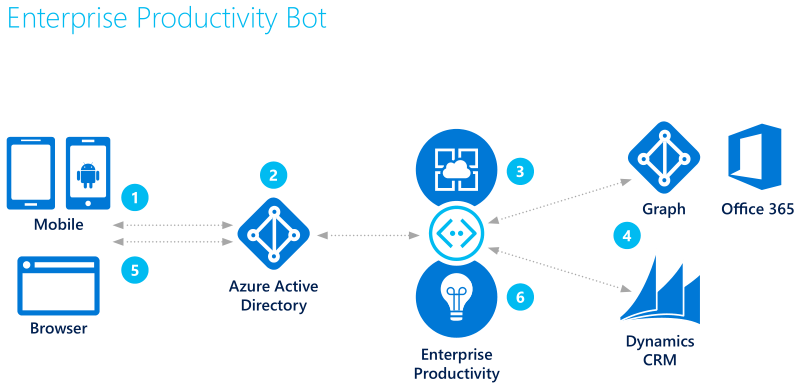
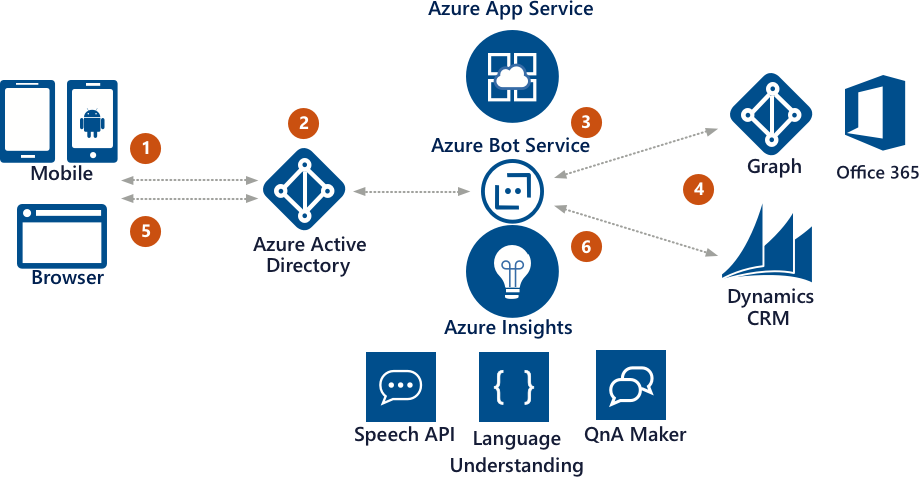
Update images for bot scenarios. (#410)

diff --git a/articles/bot-service-scenario-overview.md b/articles/bot-service-scenario-overview.md
@@ -26,15 +26,15 @@ The [Enterprise Productivity bot](bot-service-scenario-enterprise-productivity.m
 
 The bot integrates with Office 365 to make it quicker and easier to create a meeting request with another person. In the process of doing so you could access additional services like Dynamics CRM. This sample provides the code necessary to integrate with Office 365 with authentication via Azure Active Directory. It provides mock entry points for external services as an exercise for the reader.
 
-## Informational bot scenario
-This [Informational bot](bot-service-scenario-informational.md) can answer questions defined in a knowledge set or FAQ using Cognitive Services QnA Maker and answer more open-ended questions Azure Search.
+## Information bot scenario
+This [Information bot](bot-service-scenario-informational.md) can answer questions defined in a knowledge set or FAQ using Cognitive Services QnA Maker and answer more open-ended questions Azure Search.
 
 Often information is buried in structured data stores like SQL Server that can be easily surfaced via search. Imagine looking up a customer's order status by simple conversational commands. Using Cognitive Services QnA Maker, the user is presented with a set of valid search options like, lookup a customer, review customer's most recent order, etc. With the QnA format defined the user can easily ask questions that are backed by Azure Search which can look up data stored in a SQL Database.
 
 ## IoT bot scenario
 This [Internet of Things (IoT) bot](bot-service-scenario-internet-things.md) bot makes it easy for you to control devices around your home, such as a Philips Hue light using interactive chat commands.
 
-Using this simple bot, you can control your Philips Hue lights in conjunction with the free If This Than That (IFTTT) service. As an IoT device, the Philips Hue can be controlled locally via their exposed API. However, this API is not exposed for general access from outside the local network. However, IFTTT is a "[Friend of Hue](http://www2.meethue.com/en-us/friends-of-hue/ifttt/)" and thus has exposed a number of control commands that you can issue such as turning lights on and off, changing the color, or the light intensity.
+Using this simple bot, you can control your Philips Hue lights in conjunction with the free If This Then That (IFTTT) service. As an IoT device, the Philips Hue can be controlled locally via their exposed API. However, this API is not exposed for general access from outside the local network. However, IFTTT is a "[Friend of Hue](http://www2.meethue.com/en-us/friends-of-hue/ifttt/)" and thus has exposed a number of control commands that you can issue such as turning lights on and off, changing the light color, or the light intensity.
 
 ## Next steps
 Now that you have an overview of the scenarios, dive deeper into each scenario.

diff --git a/articles/bot-service-scenario-informational.md b/articles/bot-service-scenario-informational.md
@@ -1,6 +1,6 @@
 ---
-title: Informational bot scenario | Microsoft Docs
-description: Explore the Informational bot scenario with the Bot Framework.
+title: Information bot scenario | Microsoft Docs
+description: Explore the Information bot scenario with the Bot Framework.
 author: BrianRandell
 ms.author: v-brra
 manager: kamrani
@@ -8,16 +8,16 @@ ms.topic: article
 ms.prod: bot-framework
 ms.date: 12/13/2017
 ---
-# Informational Bot Scenario
-This Informational Bot could answer questions defined in a knowledge set or FAQ using Cognitive Services QnA Maker and answer more open-ended questions by using Azure Search.
+# Information Bot Scenario
+This Information Bot could answer questions defined in a knowledge set or FAQ using Cognitive Services QnA Maker and answer more open-ended questions by using Azure Search.
 
 Often information is buried in structured data stores like SQL Server that can be easily surfaced via search. Imagine looking up a customer's order status by simple conversational commands. Using Cognitive Services QnA Maker, the user is presented with a set of valid search options like, lookup a customer, review a customer's most recent order, etc. With the QnA format defined the user can easily ask questions that are backed by Azure Search which can look up data stored in a SQL Database.
 
-![The Informational bot diagram](~/media/scenarios/bot-service-scenario-informational.png)
+![The Information bot diagram](~/media/scenarios/bot-service-scenario-informational-bot.png)
 
-Here is the logic flow of an Informational bot:
+Here is the logic flow of an Information bot:
 
-1. The employee starts the Informational bot.
+1. The employee starts the Information bot.
 2. Azure Active Directory validates the employee's identity.
 3. The employee can ask the bot what type of queries are supported.
 4. Cognitive Services returns a FAQ bot built with the QnA Maker.
@@ -31,7 +31,7 @@ The sample Bot, written in C#, runs in Microsoft Azure working with data indexed
 You can download or clone the source code for this sample bot from [Samples for Common Bot Framework Scenarios](https://aka.ms/bot/scenarios).
 
 ## Components you'll use
-The Informational Bot uses the following components:
+The Information Bot uses the following components:
 -   Azure AD for Authentication
 -   Cognitive Services: QnA Maker
 -   Azure Search

diff --git a/articles/bot-service-scenario-commerce.md b/articles/bot-service-scenario-commerce.md
@@ -11,16 +11,16 @@ ms.date: 12/13/2017
 # Commerce bot scenario
 The [Commerce bot](bot-service-scenario-commerce.md) scenario describes a bot that replaces the traditional e-mail and phone call interactions that people typically have with a hotel's concierge service. The bot takes advantage of Cognitive Services to better process customer requests via text and voice with context gathered from integration with backend services.
 
-![The application bot diagram](~/media/scenarios/bot-service-scenario-application-bot.png)
+![The application bot diagram](~/media/scenarios/bot-service-scenario-commerce-bot.png)
 
 Here is the logic flow of a Commerce bot that functions as a concierge for a hotel:
 
 1. The customer uses the hotel mobile app.
-2. The customer is authenticated via an Azure Active Directory v2 authentication endpoint.
-3. The bot looks up the customer's reservations and provides different service options based on the customer status level. For example, the customer might need dinner reservations or to book a cabana by the pool. 
-4. The bot integrates with the Language Understanding (LUIS) to better understand customer requests.
-5. The customer reviews the response and refines their question using natural conversation.
-6. After the customer accepts the response, the bot updates the customer's reservation.
+2. Using Azure AD B2C, the user authenticates.
+3. Using the custom Application Bot, user requests information. 
+4. Cognitive Services helps process the natural language request.
+5. Response is reviewed by customer who can refine the question using natural conversation.
+6. After the user is happy with the results, the Application Bot updates the customer’s reservation.
 7. Application insights gathers runtime telemetery to help development with bot performance and usage.
 
 ## Sample bot

diff --git a/articles/bot-service-scenario-enterprise-productivity.md b/articles/bot-service-scenario-enterprise-productivity.md
@@ -49,7 +49,7 @@ Dynamics CRM is a customer engagement platform. Using Bots and CRM's APIs, you c
 Application Insights helps you get actionable insights through application performance management (APM) and instant analytics. Out of the box you get rich performance monitoring, powerful alerting, and easy-to-consume dashboards to help ensure your Bot is available and performing as you expect. You can quickly see if you have a problem, then perform a root cause analysis to find and fix the issue.
 
 ## Next steps
-Next, learn about the Informational bot scenario.
+Next, learn about the Information bot scenario.
 
 > [!div class="nextstepaction"]
-> [Informational bot scenario](bot-service-scenario-informational.md)
+> [Information bot scenario](bot-service-scenario-informational.md)

diff --git a/articles/TOC.md b/articles/TOC.md
@@ -18,7 +18,7 @@
 ### [Commerce bot](bot-service-scenario-commerce.md)
 ### [Cortana Skill bot](bot-service-scenario-cortana-skill.md)
 ### [Enterprise Productivity bot](bot-service-scenario-enterprise-productivity.md)
-### [Informational bot](bot-service-scenario-informational.md)
+### [Information bot](bot-service-scenario-informational.md)
 ### [Internet of Things bot](bot-service-scenario-internet-things.md)
 # How-To guides
 ## [Design](design/TOC.md)
